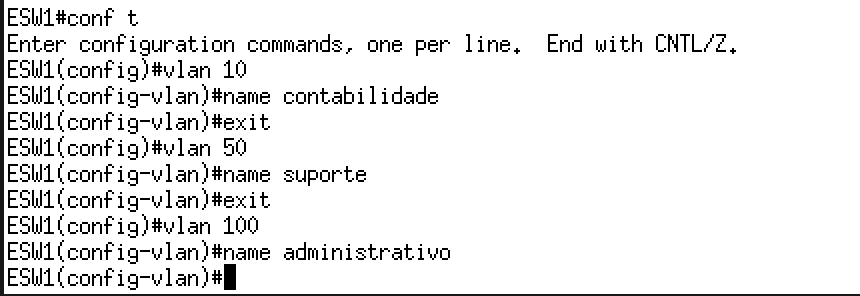
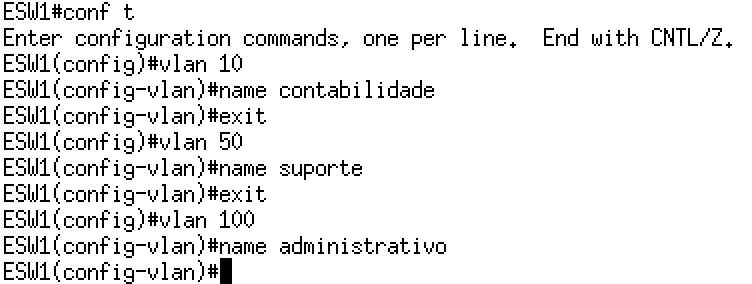
Correção de Imagem

Changed region(s): [[0.0, 0.0, 1.0, 1.0], [0.9481, 0.0845, 0.9787, 0.1127]]

diff --git a/manuscript/vlan.md b/manuscript/vlan.md
@@ -85,5 +85,5 @@
 
 <h2 align="middle">Criando Vlan</h2>
 <p align="justify">Acesse o prompt de configuração com o comando conf t, acesse o prompt de configuração da vlan com o comando vlan 10, atribua o nome da vlan com o comando name contabilidade, conforme apresentado na Figura 07:</p>
-<p align="center"><img src="images/vlan-conf.png"  width="700" height="241" align="middle"/></p>
+<p align="center"><img src="images/vlan-conf.png"  width="550" height="208" align="middle"/></p>
 <h4 align="middle">Figura 06 - Prompt Switch</h4>
